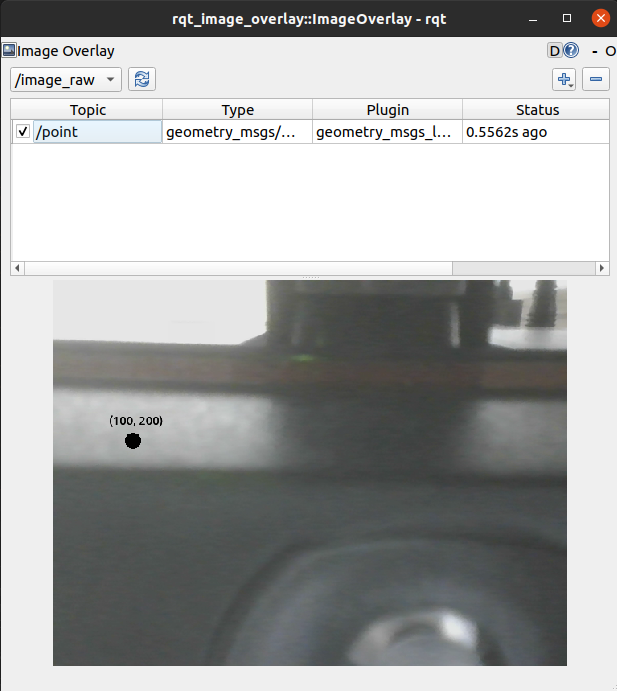
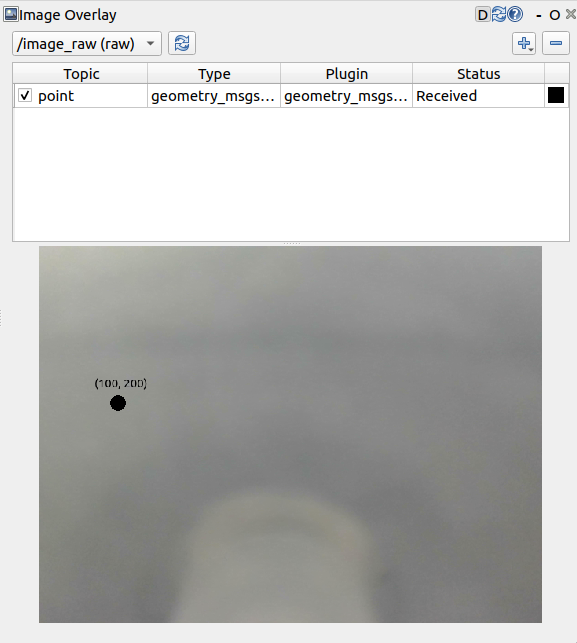
update instructions with color information

diff --git a/creating-a-layer.rst b/creating-a-layer.rst
@@ -43,7 +43,7 @@ and paste the following instead of it:
     {
     protected:
       void overlay(
-        QImage & layer,
+        QPainter & painter,
         const geometry_msgs::msg::Point & msg) override;
     };
 
@@ -69,26 +69,22 @@ instead of it:
     {
 
     void PointLayer::overlay(
-      QImage & layer,
+      QPainter & painter,
       const geometry_msgs::msg::Point & msg)
     {
-      QPainter painter(&layer);
-
       painter.translate(msg.x, msg.y);
 
       painter.save();
-      QPen pen(Qt::black);
+      QPen pen = painter.pen();
       pen.setCapStyle(Qt::RoundCap);
       pen.setWidth(20);
       painter.setPen(pen);
       painter.drawPoint(0, 0);
       painter.restore();
 
-      painter.save();
       painter.translate(-30, -20);
       QString str = "(%1, %2)";
       painter.drawText(0, 0, str.arg(msg.x).arg(msg.y));
-      painter.restore();
     }
 
     }  // namespace geometry_msgs_layers
@@ -105,7 +101,7 @@ The arguments to the ``PLUGINLIB_EXPORT_CLASS`` macro, are:
 1. The fully-qualified type of the layer class, in this case, geometry_msgs_layers::PointLayer.
 2. The fully-qualified type of the base class, this is always rqt_image_overlay_layer::PluginInterface
 
-.. warning::
+.. important::
 
     **The base class is** ``rqt_image_overlay_layer::PluginInterface``, which is a
     non-templated in-direct parent class. 
@@ -128,7 +124,7 @@ In the package, create ``plugins.xml`` with the following code:
     </library>
 
 
-.. note::
+.. tip::
 
     See `Plugin Declaration XML`_ from the official ROS2 tutorials to get familiar with the XML tags.
 
@@ -139,7 +135,7 @@ In the package, create ``plugins.xml`` with the following code:
 rqt_image_overlay_layer plugin.
 
 In your package's CMakeLists.txt, add the ``pluginlib_export_plugin_description_file`` line after
-``ament_target_dependencies`` as following:
+the existing ``ament_target_dependencies`` line as follows:
 
 .. code-block::
 
@@ -151,7 +147,7 @@ In your package's CMakeLists.txt, add the ``pluginlib_export_plugin_description_
 
     pluginlib_export_plugin_description_file(rqt_image_overlay_layer plugins.xml)
 
-.. warning::
+.. important::
 
     The first argument to ``pluginlib_export_plugin_description_file`` (ie. ``rqt_image_overlay_layer``)
     is the plugin category your layer belongs to, not the name of your layer.
@@ -179,17 +175,17 @@ You should be able to see your new layer when you go to add a layer, as followin
 7. Testing
 **********
 
-In a fresh terminal, publish a point ``(100.0, 200.0)`` on topic ``/point`` by running:
+In a fresh terminal, publish a point ``(100.0, 200.0)`` on topic ``point`` by running:
 
 .. code-block:: console
 
-    ros2 topic pub /point geometry_msgs/msg/Point "
+    ros2 topic pub point geometry_msgs/msg/Point "
     x: 100.0
     y: 200.0
     z: 0.0"
 
 In rqt_image_overlay, add a geometry_msgs_layer::PointLayer, and set the image topic and
-set the plugin's topic to ``/point``. You should see the point layer over the image, as below:
+set the plugin's topic to ``point``. You should see the point layer over the image, as below:
 
 .. image:: images/point_overlayed.png
   :align: center

diff --git a/changing-the-layer-color.rst b/changing-the-layer-color.rst
@@ -1,0 +1,29 @@
+Changing the Layer Color
+########################
+
+The ability to modify layer colors at runtime is useful for when:
+
+* An overlay is difficult to notice in the image (eg. A green overlay drawn over a green part of an image)
+* Two layers are indistinguishable from each other (eg. Two layers using the same plugin type, listening on different topics)
+
+To change the color of a layer, simply **double-click** the color tile in the rightmost column of
+the layer, as highlighted below:
+
+.. image:: images/color_column.png
+  :align: center
+
+A color dialog will pop up, where you can select a color, or create your custom color.
+By default, the layer color is black.
+
+.. image:: images/color_dialog.png
+  :align: center
+
+Once you press the Select button to close the dialog, you should see the layer update with the color
+you selected. In the image below, a light green color was selected:
+
+.. image:: images/green_layer.png
+  :align: center
+
+.. tip::
+
+  The transparency of the layer can also be modified using a custom color.

diff --git a/installation.rst b/installation.rst
@@ -27,7 +27,7 @@ Follow one of the two installation methods below:
 
       .. code-block:: console
 
-         git clone --recursive https://github.com/ros-sports/rqt_image_overlay.git src/rqt_image_overlay
+         git clone https://github.com/ros-sports/rqt_image_overlay.git src/rqt_image_overlay
          rosdep install --from-paths src
 
       In the same directory, build the package and its dependencies by running:

diff --git a/index.rst b/index.rst
@@ -47,6 +47,7 @@ The project is hosted on `Github`_ by ROS Sports. **Issues and Pull Requests are
    installation
    usage
    creating-a-layer
+   changing-the-layer-color
    timestamp-synchronization
    image-transports
 
